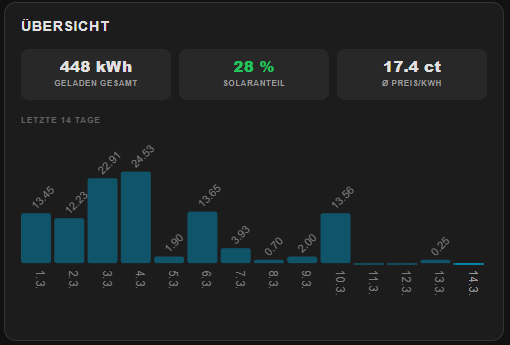
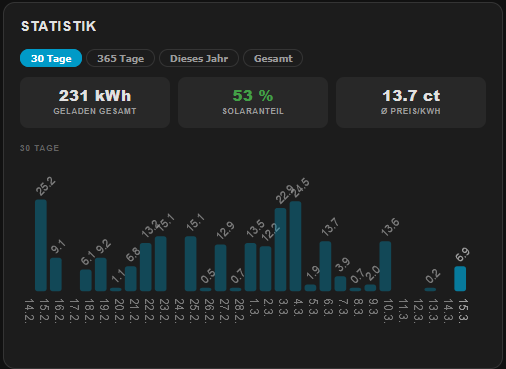
Rework stats (#69)
* Rework stats card

* Stats add various changes incl Readme

* Restruct Readme

* Add no_plan example

* Linking mode docs

* Add time based filters to stats

* Various stats changes site, grid, stats

diff --git a/dist/evcc-card.js b/dist/evcc-card.js
@@ -8,7 +8,7 @@
  *                /config/www/evcc-card/locales/en.json
  */
 
-const EVCC_CARD_VERSION = "0.4.3";
+const EVCC_CARD_VERSION = "0.4.2";
 
 const FEATURES = [
   { suffix: "mode",                domain: "select",        type: "mode",          lp: true  },
@@ -58,8 +58,16 @@ const FEATURES = [
   { suffix: "pv_2_power",          domain: "sensor",        type: "power",         lp: false },
   { suffix: "pv_3_power",          domain: "sensor",        type: "power",         lp: false },
   { suffix: "home_power",          domain: "sensor",        type: "power",         lp: false },
-  { suffix: "battery_power",       domain: "sensor",        type: "power",         lp: false },
+  { suffix: "battery_power",        domain: "sensor",        type: "power",         lp: false },
+  { suffix: "battery_0_power",     domain: "sensor",        type: "power",         lp: false },
+  { suffix: "battery_1_power",     domain: "sensor",        type: "power",         lp: false },
+  { suffix: "battery_2_power",     domain: "sensor",        type: "power",         lp: false },
+  { suffix: "battery_3_power",     domain: "sensor",        type: "power",         lp: false },
   { suffix: "battery_soc",         domain: "sensor",        type: "soc",           lp: false },
+  { suffix: "battery_0_soc",       domain: "sensor",        type: "soc",           lp: false },
+  { suffix: "battery_1_soc",       domain: "sensor",        type: "soc",           lp: false },
+  { suffix: "battery_2_soc",       domain: "sensor",        type: "soc",           lp: false },
+  { suffix: "battery_3_soc",       domain: "sensor",        type: "soc",           lp: false },
   { suffix: "battery_capacity",    domain: "sensor",        type: "info",          lp: false },
   { suffix: "pv_energy",           domain: "sensor",        type: "info",          lp: false },
   { suffix: "pv_0_energy",         domain: "sensor",        type: "info",          lp: false },
@@ -301,6 +309,10 @@ class EvccCard extends HTMLElement {
 
   setConfig(config) {
     this._config = config || {};
+    const validPeriods = ["30d", "365d", "thisYear", "total"];
+    if (validPeriods.includes(config?.stats_period)) {
+      this._statsPeriod = config.stats_period;
+    }
 
     if (!this._translationsReady && !this._loadingTranslations) {
       this._loadingTranslations = true;
@@ -1054,6 +1066,15 @@ class EvccCard extends HTMLElement {
     const pvKwh = pvSources.length > 0
       ? pvSources.reduce((sum, s) => sum + (kwh(site[s.energyKey]) ?? 0), 0)
       : kwh(site.pv_energy);
+    const battSources = [
+      { key: "battery_0_power", socKey: "battery_0_soc", idx: 0 },
+      { key: "battery_1_power", socKey: "battery_1_soc", idx: 1 },
+      { key: "battery_2_power", socKey: "battery_2_soc", idx: 2 },
+      { key: "battery_3_power", socKey: "battery_3_soc", idx: 3 },
+    ].filter(s => site[s.key]).map(s => ({
+      ...s,
+      label: pvNameFromEntity(site[s.key]) ?? `Batterie ${s.idx + 1}`,
+    }));
     const gridPow = kw(site.grid_power);
     const battPow = kw(site.battery_power);
     const homePow = kw(site.home_power);
@@ -1316,6 +1337,24 @@ class EvccCard extends HTMLElement {
         }).join("")
       : "";
 
+    const battRowIcon = "<svg xmlns=\"http://www.w3.org/2000/svg\" viewBox=\"0 0 24 24\" width=\"14\" height=\"14\" fill=\"currentColor\" style=\"vertical-align:middle\"><path d=\"M15.67,4H14V2H10V4H8.33C7.6,4 7,4.6 7,5.33V20.67C7,21.4 7.6,22 8.33,22H15.67C16.4,22 17,21.4 17,20.67V5.33C17,4.6 16.4,4 15.67,4M13,18H11V16H9L12,11V14H14L13,18Z\"/></svg>";
+    const battDischRows = battSources.length > 1
+      ? battSources.map(s => {
+          const p = kw(site[s.key]);
+          const bSoc = site[s.socKey] ? Math.round(parseFloat(stateVal(this._hass, site[s.socKey])) || 0) : null;
+          const label = bSoc !== null ? `${s.label} – ${bSoc} %` : s.label;
+          return p > 0.05 ? row(battRowIcon, label, "", p, "", true) : "";
+        }).join("")
+      : "";
+    const battChargeRows = battSources.length > 1
+      ? battSources.map(s => {
+          const p = kw(site[s.key]);
+          const bSoc = site[s.socKey] ? Math.round(parseFloat(stateVal(this._hass, site[s.socKey])) || 0) : null;
+          const label = bSoc !== null ? `${s.label} – ${bSoc} %` : s.label;
+          return p < -0.05 ? row(battRowIcon, label, "", Math.abs(p), "", true) : "";
+        }).join("")
+      : "";
+
     const inSection = section(this._t("in") || "In", inTotal, [
       row("<svg xmlns=\"http://www.w3.org/2000/svg\" viewBox=\"0 0 24 24\" width=\"14\" height=\"14\" fill=\"currentColor\" style=\"vertical-align:middle\"><path d=\"M12,7A5,5 0 0,1 17,12A5,5 0 0,1 12,17A5,5 0 0,1 7,12A5,5 0 0,1 12,7M12,9A3,3 0 0,0 9,12A3,3 0 0,0 12,15A3,3 0 0,0 15,12A3,3 0 0,0 12,9M12,2L14.39,5.42C13.65,5.15 12.84,5 12,5C11.16,5 10.35,5.15 9.61,5.42L12,2M3.34,7L7.5,6.65C6.9,7.16 6.36,7.78 5.94,8.5C5.5,9.24 5.25,10 5.11,10.79L3.34,7M3.36,17L5.12,13.23C5.26,14 5.53,14.78 5.95,15.5C6.37,16.24 6.91,16.86 7.5,17.37L3.36,17M20.65,7L18.88,10.79C18.74,10 18.47,9.23 18.05,8.5C17.63,7.78 17.1,7.15 16.5,6.64L20.65,7M20.64,17L16.5,17.36C17.09,16.85 17.62,16.22 18.04,15.5C18.46,14.77 18.73,14 18.87,13.21L20.64,17M12,22L9.59,18.56C10.33,18.83 11.14,19 12,19C12.82,19 13.63,18.83 14.37,18.56L12,22Z\"/></svg>", this._t("generation"), "", pvPow, "site-pw-green"),
       pvRows,
@@ -1323,6 +1362,7 @@ class EvccCard extends HTMLElement {
         ? row("<svg xmlns=\"http://www.w3.org/2000/svg\" viewBox=\"0 0 24 24\" width=\"14\" height=\"14\" fill=\"currentColor\" style=\"vertical-align:middle\"><path d=\"M15.67,4H14V2H10V4H8.33C7.6,4 7,4.6 7,5.33V20.67C7,21.4 7.6,22 8.33,22H15.67C16.4,22 17,21.4 17,20.67V5.33C17,4.6 16.4,4 15.67,4M13,18H11V16H9L12,11V14H14L13,18Z\"/></svg>",
               batterySoc !== null ? `${this._t("battDischarge")} – ${Math.round(batterySoc)} %` : this._t("battDischarge"),
               "", battDischPow) : "",
+      battDischRows,
       bezugPow > 0.05
         ? row("<svg xmlns=\"http://www.w3.org/2000/svg\" viewBox=\"0 0 24 24\" width=\"14\" height=\"14\" fill=\"currentColor\" style=\"vertical-align:middle\"><path d=\"M11,7.5L9.5,3H14.5L13,7.5H15L18,3H21L15,12H17L21,21H15L12,15L9,21H3L7,12H9L3,3H6L9,7.5H11M12,13.5L13.9,19H10.1L12,13.5Z\"/></svg>", this._t("gridImport"), "", bezugPow) : "",
     ].join(""));
@@ -1335,6 +1375,7 @@ class EvccCard extends HTMLElement {
         ? row("<svg xmlns=\"http://www.w3.org/2000/svg\" viewBox=\"0 0 24 24\" width=\"14\" height=\"14\" fill=\"currentColor\" style=\"vertical-align:middle\"><path d=\"M15.67,4H14V2H10V4H8.33C7.6,4 7,4.6 7,5.33V20.67C7,21.4 7.6,22 8.33,22H15.67C16.4,22 17,21.4 17,20.67V5.33C17,4.6 16.4,4 15.67,4M13,18H11V16H9L12,11V14H14L13,18Z\"/></svg>",
               batterySoc !== null ? `${this._t("battCharge")} – ${Math.round(batterySoc)} %` : this._t("battCharge"),
               "", battChargePow) : "",
+      battChargeRows,
       feedinPow > 0.05
         ? row("<svg xmlns=\"http://www.w3.org/2000/svg\" viewBox=\"0 0 24 24\" width=\"14\" height=\"14\" fill=\"currentColor\" style=\"vertical-align:middle\"><path d=\"M11,7.5L9.5,3H14.5L13,7.5H15L18,3H21L15,12H17L21,21H15L12,15L9,21H3L7,12H9L3,3H6L9,7.5H11M12,13.5L13.9,19H10.1L12,13.5Z\"/></svg>", this._t("gridExport"), "", feedinPow, "site-pw-yellow") : "",
     ].join(""));
@@ -1346,7 +1387,7 @@ class EvccCard extends HTMLElement {
     return `
       <div class="site-block">
         <div class="lp-header">
-          <span class="lp-name">${this._t("energyFlow")}</span>
+          <span class="lp-name">${this._t("overview")}</span>
         </div>
         <div class="flow-wrap-clickable" role="button" tabindex="0"
              onclick="window.__evccCards.get('${this._cardId}')._toggleSite()"
@@ -1374,6 +1415,16 @@ class EvccCard extends HTMLElement {
       { key: "pv_0_power" }, { key: "pv_1_power" },
       { key: "pv_2_power" }, { key: "pv_3_power" },
     ].filter(s => site[s.key]);
+
+    const battSources = [
+      { key: "battery_0_power", socKey: "battery_0_soc", idx: 0 },
+      { key: "battery_1_power", socKey: "battery_1_soc", idx: 1 },
+      { key: "battery_2_power", socKey: "battery_2_soc", idx: 2 },
+      { key: "battery_3_power", socKey: "battery_3_soc", idx: 3 },
+    ].filter(s => site[s.key]).map(s => ({
+      ...s,
+      label: (site[s.key] ? (attr(this._hass, site[s.key], "title") ?? null) : null) ?? `Batterie ${s.idx + 1}`,
+    }));
 
     const pvPow         = pvSources.length > 0
       ? pvSources.reduce((sum, s) => sum + kw(site[s.key]), 0)
@@ -1430,16 +1481,36 @@ class EvccCard extends HTMLElement {
         return chip("var(--evcc-blue)", lpName.toUpperCase(), soc ? `${fmtKw(lpPow)} · ${soc}` : fmtKw(lpPow));
       }).join("");
 
+    const aggBattSoc = site.battery_soc ? Math.round(parseFloat(stateVal(this._hass, site.battery_soc)) || 0) : null;
+
+    const battDischChips = battSources.length > 1
+      ? battSources.flatMap(s => {
+          const p = kw(site[s.key]);
+          if (p <= 0.05) return [];
+          const bSoc = site[s.socKey] ? Math.round(parseFloat(stateVal(this._hass, site[s.socKey])) || 0) : null;
+          return [chip("var(--evcc-orange)", s.label, bSoc !== null ? `${fmtKw(p)} · ${bSoc} %` : fmtKw(p))];
+        })
+      : battDischPow > 0.05 ? [chip("var(--evcc-orange)", this._t("battDischarge"), aggBattSoc !== null ? `${fmtKw(battDischPow)} · ${aggBattSoc} %` : fmtKw(battDischPow))] : [];
+
+    const battChargeChips = battSources.length > 1
+      ? battSources.flatMap(s => {
+          const p = kw(site[s.key]);
+          if (p >= -0.05) return [];
+          const bSoc = site[s.socKey] ? Math.round(parseFloat(stateVal(this._hass, site[s.socKey])) || 0) : null;
+          return [chip("var(--evcc-orange)", s.label, bSoc !== null ? `${fmtKw(Math.abs(p))} · ${bSoc} %` : fmtKw(Math.abs(p)))];
+        })
+      : battChargePow > 0.05 ? [chip("var(--evcc-orange)", this._t("battCharge"), aggBattSoc !== null ? `${fmtKw(battChargePow)} · ${aggBattSoc} %` : fmtKw(battChargePow))] : [];
+
     const srcChips = [
-      pvPow        > 0.05 ? chip("var(--evcc-green)",  this._t("generation"),    fmtKw(pvPow))        : "",
-      bezugPow     > 0.05 ? chip("var(--evcc-red)",   this._t("gridImport"),    fmtKw(bezugPow))     : "",
-      battDischPow > 0.05 ? chip("var(--evcc-orange)",this._t("battDischarge"), fmtKw(battDischPow)) : "",
+      pvPow        > 0.05 ? chip("var(--evcc-green)",  this._t("generation"),    fmtKw(pvPow))    : "",
+      bezugPow     > 0.05 ? chip("var(--evcc-red)",    this._t("gridImport"),    fmtKw(bezugPow)) : "",
+      ...battDischChips,
     ].filter(Boolean).join("");
 
     const dstChips = [
-      homePow      > 0.05 ? chip("var(--secondary-text-color)", this._t("consumption"), fmtKw(homePow))       : "",
+      homePow      > 0.05 ? chip("var(--secondary-text-color)", this._t("consumption"), fmtKw(homePow)) : "",
       lpChips,
-      battChargePow > 0.05 ? chip("var(--evcc-orange)", this._t("battCharge"),  fmtKw(battChargePow)) : "",
+      ...battChargeChips,
       feedinPow    > 0.05 ? chip("var(--evcc-yellow)", this._t("gridExport"),   fmtKw(feedinPow))     : "",
     ].filter(Boolean).join("");
 
@@ -1675,6 +1746,7 @@ class EvccCard extends HTMLElement {
 
   _renderStatsFooter() {
     const period = this._config.stats_period ?? "total";
+    if (period === "none") return "";
     const { kwhId, solarId, priceId } = this._getStatEntityIds(period);
     if (!kwhId && !solarId && !priceId) return "";
 
@@ -1683,8 +1755,11 @@ class EvccCard extends HTMLElement {
     const solar = val(solarId);
     const price = val(priceId);
 
+    const periodTKey = { "30d": "statsPeriod30d", "365d": "statsPeriod365d", "thisYear": "statsPeriodThisYear", "total": "statsPeriodTotal" }[period] ?? "statsPeriodTotal";
+    const kwhLabel = `${this._t(periodTKey)} ${this._t("statsCharged")}`;
+
     const items = [
-      kwhId   ? `<span class="sf-item"><span class="sf-val">${Math.round(kwh)} kWh</span><span class="sf-lbl">${this._t("statsTotalCharged")}</span></span>` : "",
+      kwhId   ? `<span class="sf-item"><span class="sf-val">${Math.round(kwh)} kWh</span><span class="sf-lbl">${kwhLabel}</span></span>` : "",
       solarId ? `<span class="sf-item"><span class="sf-val" style="color:var(--evcc-green)">${Math.round(solar)} %</span><span class="sf-lbl">${this._t("statsSolarShare")}</span></span>` : "",
       priceId ? `<span class="sf-item"><span class="sf-val">${(price * 100).toFixed(1)} ct</span><span class="sf-lbl">${this._t("statsAvgPrice")}</span></span>` : "",
     ].filter(Boolean);

diff --git a/README.md b/README.md
@@ -113,7 +113,7 @@ Add the card to any Lovelace dashboard using the YAML editor. The `mode` option 
 | `site_details` | `string` | *(expanded)* | Set to `collapsed` to hide the IN/OUT detail table by default in `site` mode |
 | `charge_current_settings` | `string` | *(collapsed)* | Set to `expanded` to show the charge current block (phase switch, min/max current) expanded by default |
 | `prefix` | `string` | `evcc_` | Entity name prefix used by the integration — only needed if you run multiple EVCC instances with a custom prefix (e.g. `evcc2_`) |
-| `stats_period` | `string` | `total` | Statistics period shown in the footer of `site` and `grid` cards. Allowed values: `total`, `30d`, `365d`, `thisYear`. The `stats` card always shows an interactive tab selector regardless of this option. |
+| `stats_period` | `string` | `total` | Default statistics period. For `site` and `grid` cards: controls the footer KPIs; allowed values: `total`, `30d`, `365d`, `thisYear`, `none` (hides the footer entirely). For the `stats` card: sets the initially selected tab; allowed values: `total`, `30d`, `365d`, `thisYear` (the user can still switch tabs interactively). |
 
 ---
 
@@ -172,6 +172,7 @@ The IN/OUT detail table can be toggled by clicking the power bar. It opens expan
 type: custom:evcc-card
 mode: site
 ```
+![Site overview full](images/site_full.png)
 
 ```yaml
 type: custom:evcc-card
@@ -180,6 +181,7 @@ site_details: collapsed   # start with the detail table hidden
 ```
 
 ![Site overview](images/site.png)
+
 
 ---
 
@@ -219,7 +221,7 @@ Charging statistics with period selector and a matching bar chart:
 | **Total** | One bar per year | All available years |
 
 - Chart data is fetched lazily per tab on first access and cached for 5 minutes
-- The same three KPIs also appear as a compact footer row at the bottom of `site` and `grid` cards — the period shown there is controlled via the `stats_period` config option (default: `total`)
+- The same three KPIs also appear as a compact footer row at the bottom of `site` and `grid` cards — the period shown there is controlled via the `stats_period` config option (default: `total`). Set `stats_period: none` to hide the footer entirely. The label below the kWh value reflects the active period (e.g. *Total charged*, *30 days charged*, *This year charged*).
 
 The stat entities are auto-discovered using the pattern `sensor.{prefix}stat_*` (e.g. `sensor.evcc_stat_total_charged_kwh`). The bar chart always uses the cumulative `sensor.{prefix}stat_total_charged_kwh` entity from the HA Recorder, independent of which KPI period is selected.
 
